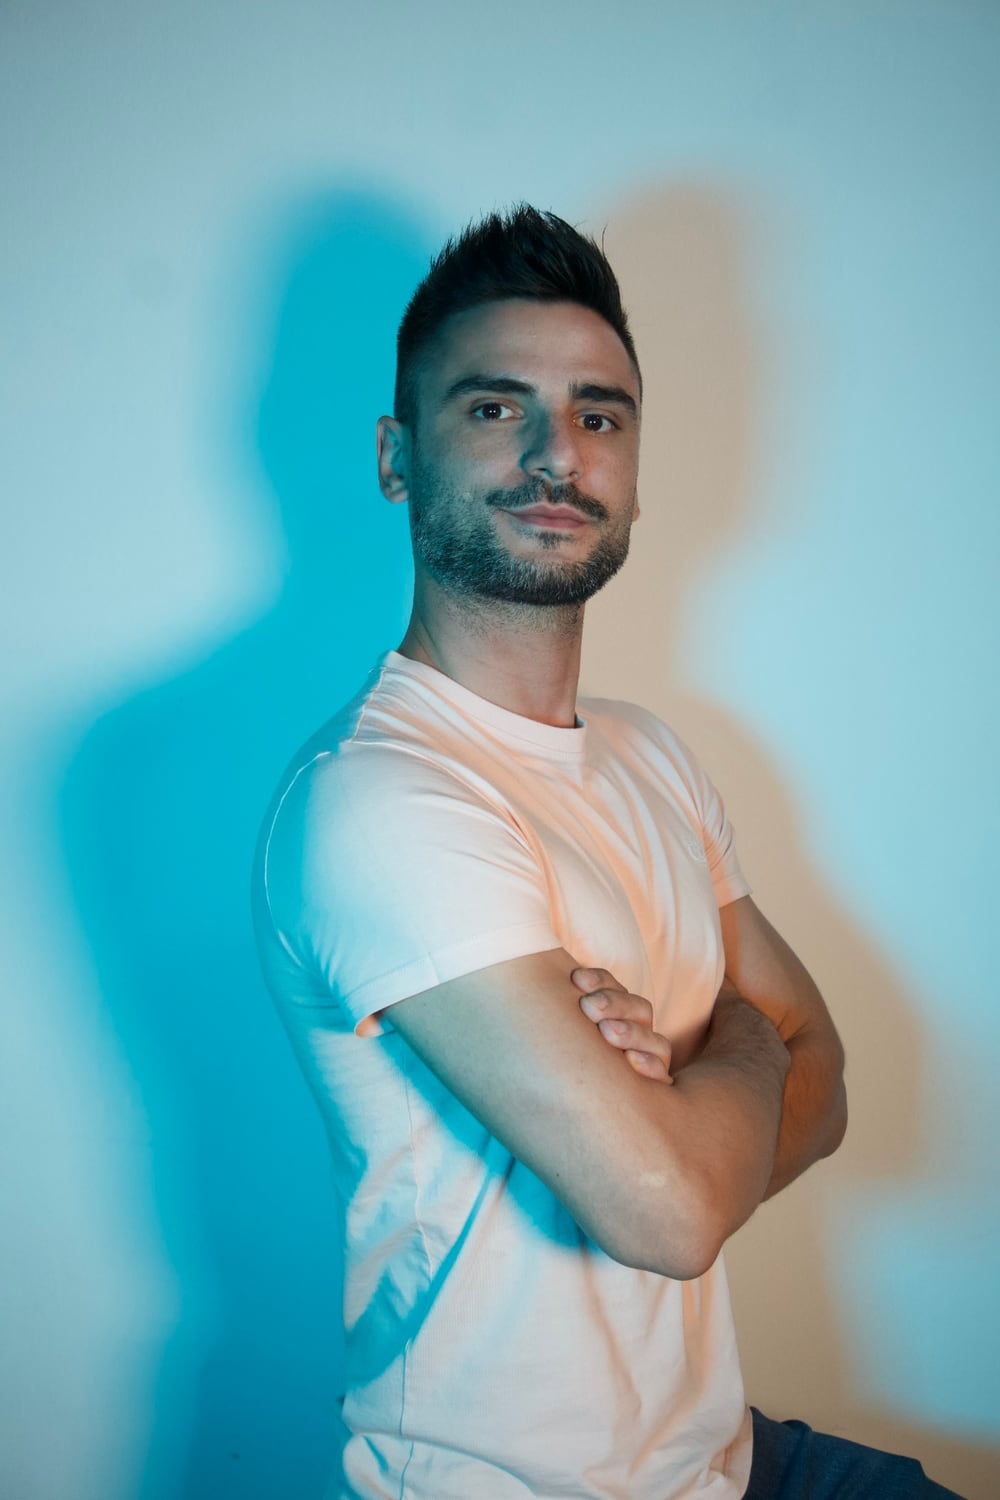
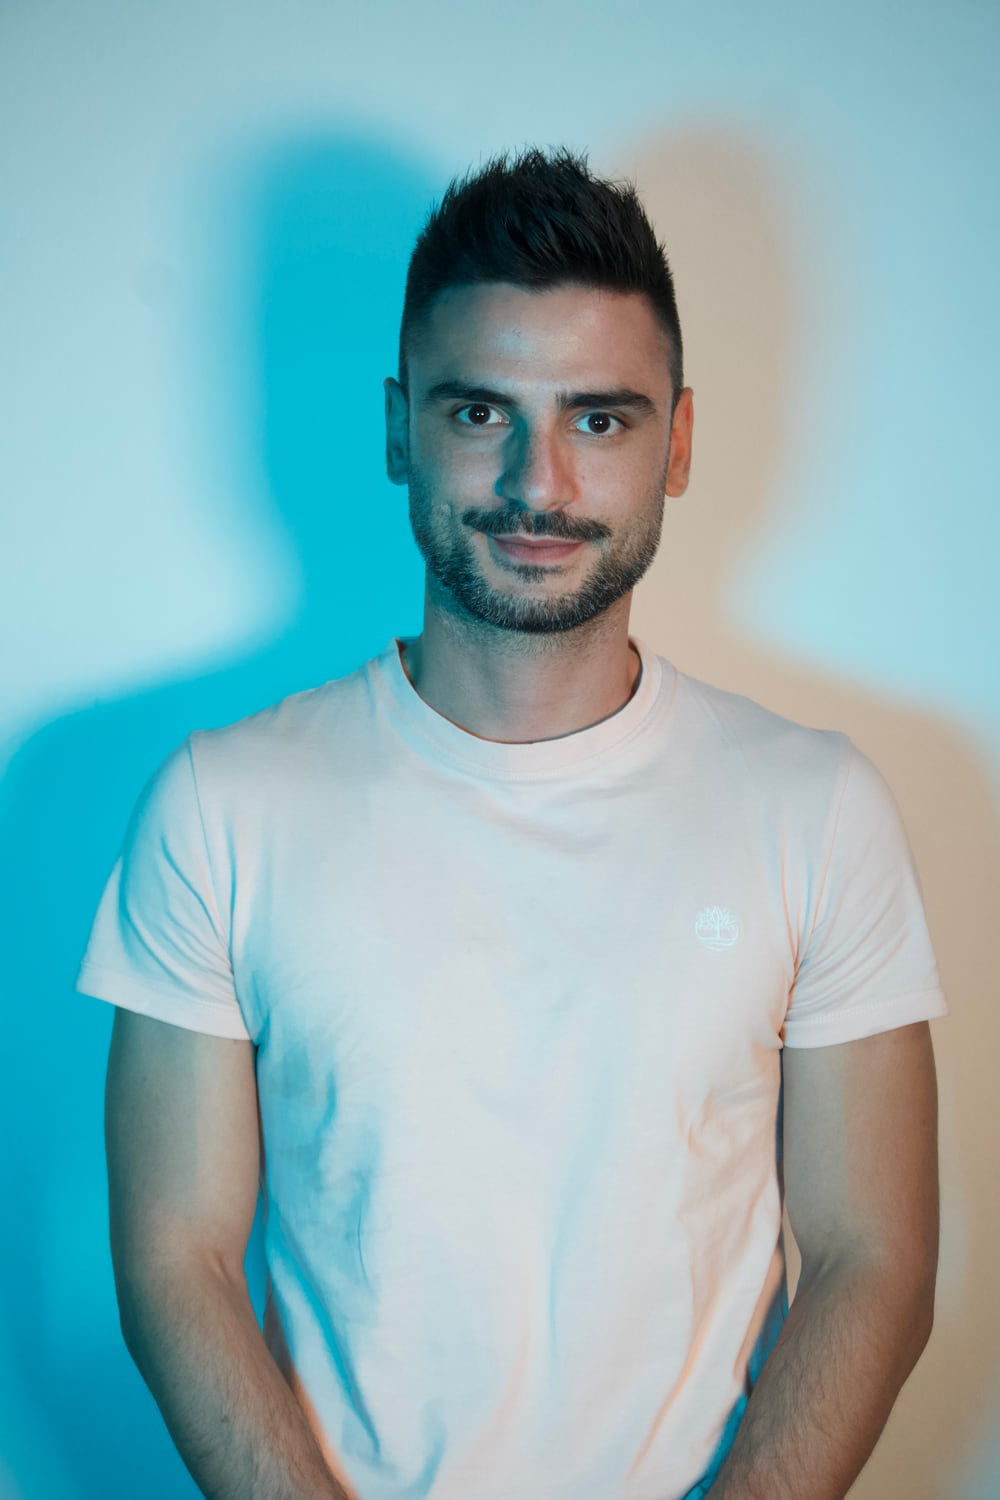
feat(home): a front-facing hero portrait, full width on narrow screens
Mihail chose the front-facing portrait over the crossed-arms one. The file is renamed to hero-portrait.jpg rather than overwritten, because next/image caches optimised output by source URL and a same-name replacement kept serving the old photo in dev and would on Vercel too. On narrow screens the portrait was 60 percent wide and left-aligned, leaving dead space on its right; it is now full width in a 4:3 crop positioned on the face, which keeps the page's single left alignment axis and turns the photo into a header that leads into the headline.

main

diff --git a/src/components/hero.module.css b/src/components/hero.module.css
@@ -37,31 +37,6 @@
   margin-top: 32px;
 }
 
-.primary,
-.secondary {
-  display: inline-flex;
-  align-items: center;
-  min-height: 44px;
-  padding: 0 20px;
-  border-radius: 999px;
-  font-weight: 600;
-  font-size: 16px;
-  text-decoration: none;
-}
-
-.primary {
-  background: var(--ink);
-  color: var(--paper);
-}
-
-.secondary {
-  border: 1px solid var(--rule);
-}
-
-.secondary:hover {
-  border-color: var(--muted);
-}
-
 .portrait {
   width: 100%;
   aspect-ratio: 4 / 5;
@@ -80,7 +55,8 @@
 
   .portrait {
     order: -1;
-    width: 60%;
-    max-width: 260px;
+    width: 100%;
+    aspect-ratio: 4 / 3;
+    object-position: center 12%;
   }
 }
